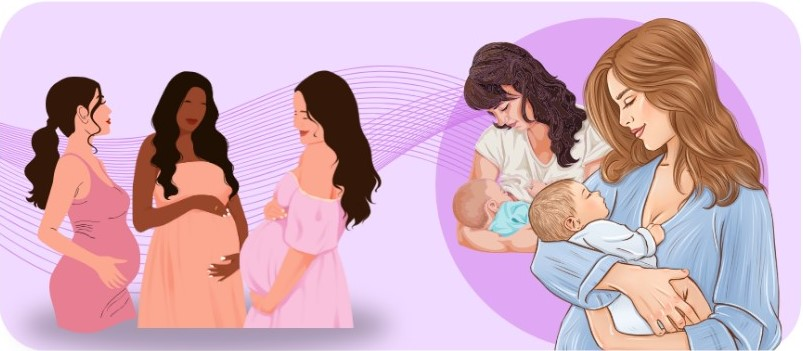
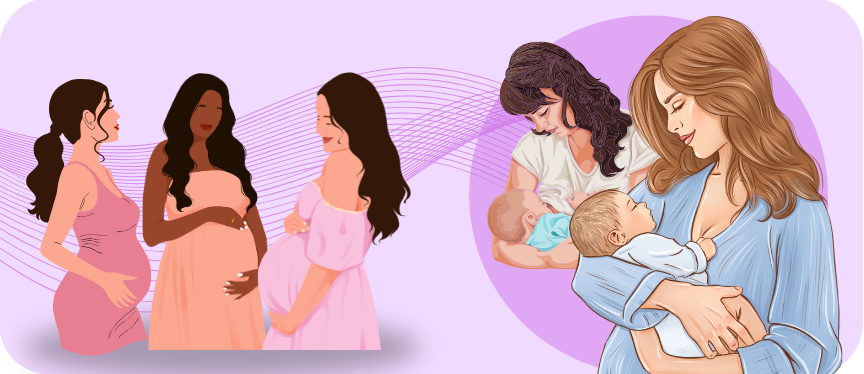
feat: add new images hero from adult and pregnant

diff --git a/src/components/modal-profile.tsx b/src/components/modal-profile.tsx
@@ -75,7 +75,7 @@ export const ModalProfile = ({ profile }: Props) => {
             </h1>
           </div>
         </div>
-        <div className="w-[250px] lg:w-[400px] lg:h-[250px]  rounded-2xl">
+        <div className="w-[250px] lg:w-[500px] lg:h-[250px]  rounded-2xl mb-4">
           <Image
             alt="crianças"
             src={profile?.hero || ""}

diff --git a/src/utils/profiles.ts b/src/utils/profiles.ts
@@ -40,7 +40,7 @@ export const profiles = [
     id: 3,
     label: "Adulto-Idoso",
     img: "/images/adulto-idoso.avif",
-    hero: "/images/adulto-idoso.avif",
+    hero: "/images/hero-adultos.jpg",
     title: "",
     color: "#0284c7",
     description: "",

diff --git a/src/utils/categories-pregnant.ts b/src/utils/categories-pregnant.ts
@@ -12,7 +12,7 @@ export const categoriesPregnant = [
     {
         id: 320,
         img: "/images/",
-        label: "Gestante e Puérpera a partir da 20ª semana"
+        label: "Gestante a partir da 20ª semana"
     },
 
 ]
